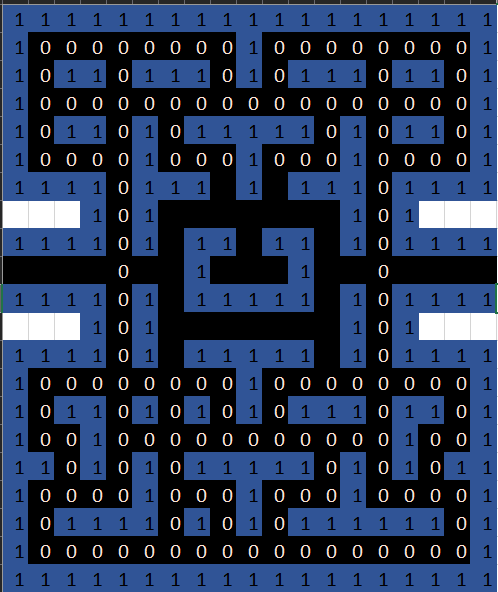
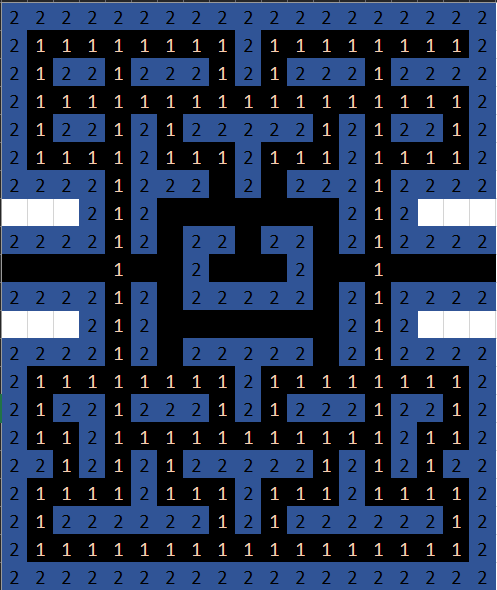
edit PACMAN.md

diff --git a/Documentation/PACMAN.md b/Documentation/PACMAN.md
@@ -19,6 +19,28 @@ In order to have a better representation of the map and the game for the user, w
 
 Map Management :
 ----------------
+  
+  
+{{2,2,2,2,2,2,2,2,2,2,2,2,2,2,2,2,2,2,2},  
+&nbsp;{2,1,1,1,1,1,1,1,1,2,1,1,1,1,1,1,1,1,2},  
+&nbsp;{2,1,2,2,1,2,2,2,1,2,1,2,2,2,1,2,2,1,2},  
+&nbsp;{2,1,1,1,1,1,1,1,1,1,1,1,1,1,1,1,1,1,2},  
+&nbsp;{2,1,2,2,1,2,1,2,2,2,2,2,1,2,1,2,2,1,2},  
+&nbsp;{2,1,1,1,1,2,1,1,1,2,1,1,1,2,1,1,1,1,2},  
+&nbsp;{2,2,2,2,1,2,2,2,0,2,0,2,2,2,1,2,2,2,2},  
+&nbsp;{2,2,2,2,1,2,0,0,0,0,0,0,0,2,1,2,2,2,2},  
+&nbsp;{2,2,2,2,1,2,0,2,2,0,2,2,0,2,1,2,2,2,2},  
+&nbsp;{0,0,0,0,1,0,0,2,0,0,0,2,0,0,1,0,0,0,0},  
+&nbsp;{2,2,2,2,1,2,0,2,2,2,2,2,0,2,1,2,2,2,2},  
+&nbsp;{2,2,2,2,1,2,0,0,0,0,0,0,0,2,1,2,2,2,2},  
+&nbsp;{2,2,2,2,1,2,0,2,2,2,2,2,0,2,1,2,2,2,2},  
+&nbsp;{2,1,1,1,1,1,1,1,1,2,1,1,1,1,1,1,1,1,2},  
+&nbsp;{2,1,2,2,1,2,2,2,1,2,1,2,2,2,1,2,2,1,2},  
+&nbsp;{2,1,1,2,1,1,1,1,1,1,1,1,1,1,1,2,1,1,2},  
+&nbsp;{2,2,1,2,1,2,1,2,2,2,2,2,1,2,1,2,1,2,2},  
+&nbsp;{2,1,2,2,2,2,2,2,1,2,1,2,2,2,2,2,2,1,2},  
+&nbsp;{2,1,1,1,1,1,1,1,1,1,1,1,1,1,1,1,1,1,2},  
+&nbsp;{2,2,2,2,2,2,2,2,2,2,2,2,2,2,2,2,2,2,2}}
 
 ![Excelmap](excelmap.png) &nbsp; &nbsp; &nbsp; &nbsp; &nbsp; &nbsp; &nbsp; &nbsp; ![Pacman](pacman.png) &nbsp; &nbsp; &nbsp; &nbsp; &nbsp; &nbsp; &nbsp; &nbsp; 
 
@@ -28,3 +50,4 @@ We define each box with a specific value to define its state :
 - 0 corresponds to a box already eaten
 - 1 corresponds to a box not yet eaten
 - 2 corresponds to a wall
+
